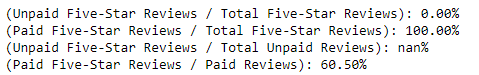
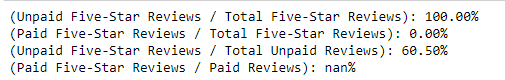
updating screenshots and readme

diff --git a/README.md b/README.md
@@ -1,1 +1,41 @@
 # Amazon_Vine_Analysis
+
+## Overview
+This project is to analyze reviews written on Amazon, by members of the Amazon Vine program. The data includes reviews from both paid and unpaid members of Vine. The Review Dataset used is for Book reviews.
+
+AWS, PySpark, and pgAdmin were used to perform the ETL process and get the data ready to be analyzed. I used Pandas in Jupyter Notebook to perform the analysis of whether there was any bias for Vine members to provide favorable reviews.
+
+## Results
+
+- Total Vine Reviews: 0
+- Total non-Vine Reviews: 399,745
+- Total Reviews: 399,745
+
+
+- 5-star Vine Reviews: 0
+- 5-star non-Vine Reviews: 241,836
+- Total 5-star Reviews: 241,836
+
+
+- Percentage of Vine reviews that were 5 stars: 0%
+- Percentage of non-Vine reviews that were 5 stars: 60.50%
+
+![](Resources/ratios.png)
+
+
+## Summary
+In your summary, state if there is any positivity bias for reviews in the Vine program. Use the results of your analysis to support your statement. Then, provide one additional analysis that you could do with the dataset to support your statement.
+
+Unfortunately, this data did not include enough Vine members to conclude whether the Vine members have a bias towards leaving positive reviews (using 5-star reviews). I started by filtering this dataframe to only include reviews with more than 20 votes and with a "helpfulness" rating of above 50%. This filtering was used to start with a more helpful dataframe to conduct an analysis. However, this filtering also cut out all of the Vine users for this dataframe.
+
+Here we can see the empty dataframe for Vine users:
+![](Resources/paid.png)
+
+As opposed to the dataframe created for un-paid reviewers:
+![](Resources/unpaid.png)
+
+Before filtering, there were only two reviews made by Vine users (as can be seen in the following screenshot):
+![](Resources/vine_yes.png)
+
+
+Since this data wasn't conducive to the analysis of positivity bias, I would choose a different data set to determine whether Vine users are biased to leave better reviews. Another analysis that could be made using another data set, would be to conduct the same analysis using four-star reviews as well. 
